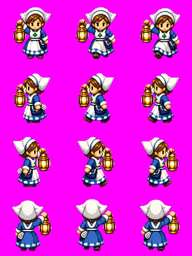
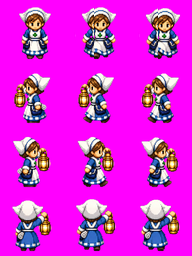
fix: the build-63 owner items -- the OTHER half-drawn well, the lantern, the exit
1. "the part of the well is still in the map. please cover it with grass (to
   the left of the player in the screen shot)"

   A THIRD well, not the one covered yesterday. The central well is gone and
   its plaza is clean; this is a C of masonry at art (858-900, 1538-1580), cell
   ~(29.3, 51.9), in the grass between the south-west woodpile and the path --
   the same "half drawn well" defect the owner first reported on build 59, in a
   corner nobody had looked at. It carried no collision at all, so this is
   paint only.

   Two things went differently from the central well and both are worth
   keeping. The source patch was picked BY EYE and only then checked by
   numbers: the automatic mean/std match chose an offset whose disc scored
   0.83% "dirty" and was a COTTAGE ROOF, because green roof tiles sail through
   a grass detector built on "green wins". Eight candidate patches were
   rendered and looked at before one was chosen. And the mask is SHAPED, not a
   feathered disc -- the fragment sits within 8 px of the woodpile above it, so
   the disc-plus-feather that suited the open plaza would have ghosted it. The
   mask is the fragment's own non-green pixels, dilated 5 and blurred 2.5,
   which is safe here because source and destination are the same material and
   there is no seam to hide.

2. "the healer is also holding a lantern for some reason but this is weird. she
   does not need it."
[…]

Changed region(s): [[0.7188, 0.0312, 0.8438, 0.25], [0.375, 0.0312, 0.5, 0.25], [0.0625, 0.0312, 0.1562, 0.25]]

diff --git a/public/act1-hifi/town.html b/public/act1-hifi/town.html
@@ -374,6 +374,17 @@ const state = { facing: (firstEntry && town.firstEntryFacing) || 'down', moving:
 let talking = null;
 let exitArmed = false;
 let exiting = false;
+// The exit is a LINE ACROSS THE TOWN'S MOUTH and the player leaves the moment she CROSSES it.
+// Every town's mouth runs east-west, so the line is a y value and only the sign differs; if a town
+// ever gets an east or west mouth this needs the other axis, and `exit.axis` is where to say so.
+const EXIT_SIGN = (town.exit?.axis ?? (town.exit?.cell?.[1] < town.cells / 2 ? 'north' : 'south'))
+  === 'north' ? -1 : 1;
+// Half-width of the mouth. 2.4 cells covers the narrowest reachable crossing in all three towns --
+// greenhollow spans x 30.31-34.06 at its gate, millbrook 29.31-33.88, Port Sapphire 31.44-33.75 --
+// measured by BFS from startCell over the walkable authority. Too small is not a cosmetic error: a
+// player hugging the edge of the gate walks straight through the line and out into the apron with
+// no way to leave.
+const EXIT_HALF_WIDTH = 2.4;
 
 // Service spots are places, not people: the shop counter under the awning and the save point by
 // the well. The healer is BOTH -- she is an NPC you talk to, and talking to her is the heal
@@ -552,13 +563,29 @@ function frame(now) {
     position = result.position ?? result;
   }
   // ---- leaving the town ---------------------------------------------------------------------
-  // The exit is the north trail mouth the player entered by. It ARMS only once they have walked
-  // clear of it, so spawning on the trail does not immediately bounce them back to the overworld.
+  // CROSSING the mouth leaves. This used to be a symmetric box -- fire when |dy| < 1.0 and
+  // |dx| < 1.6 of `exit.cell` -- and the box is what made the exit feel wrong twice running. It
+  // fires a WHOLE CELL BEFORE the line on the way out, so on build 62, with the exit on the painted
+  // gate, the screen changed while the player was still inside the fence (OWNER: "the exit of the
+  // town is set at a weird place"); and being symmetric it also fires a cell PAST the line, so
+  // pushing the exit out to the map edge to fix that left an eight-cell trudge across empty grass
+  // (OWNER, build 63: "the player needs to exit the town the moment they touch the edge of the
+  // town. currently they need to walk off of the map to exit it").
+  //
+  // A directional test has neither failure: `outward` is negative inside the town and crosses zero
+  // exactly at the line, so the transition happens on the step that reaches the gate and nowhere
+  // else. It also makes `exit.cell` mean what it says -- it is the line, and the minimap marker
+  // drawn from it now sits where the screen actually changes.
+  //
+  // ARMING still exists, but for the only reason it ever had: never fire on the frame the player
+  // arrives. She spawns at `startCell`, several cells inside, so she arms immediately and cannot
+  // fire until she has walked out; the old "2.5 cells clear in any direction" was measuring the
+  // wrong thing, because with a crossing test the inside is a half-plane, not a radius.
   const exitCell = town.exit?.cell ?? town.startCell;
-  const dyExit = Math.abs(position.y / CELL_W - exitCell[1]);
-  const dxExit = Math.abs(position.x / CELL_W - exitCell[0]);
-  if (!exitArmed && (dyExit > 2.5 || dxExit > 2.5)) exitArmed = true;
-  if (exitArmed && !exiting && dyExit < 1.0 && dxExit < 1.6) {
+  const outward = (position.y / CELL_W - exitCell[1]) * EXIT_SIGN;
+  const lateral = Math.abs(position.x / CELL_W - exitCell[0]);
+  if (!exitArmed && outward <= -0.75) exitArmed = true;
+  if (exitArmed && !exiting && outward >= 0 && lateral < EXIT_HALF_WIDTH) {
     exiting = true;
     parent.postMessage({ type: 'act1-town-exit', town: town.id,
                          targetMapId: town.exit?.targetMapId ?? 'overworld',

diff --git a/scripts/check_town_exits.py b/scripts/check_town_exits.py
@@ -1,0 +1,98 @@
+#!/usr/bin/env python3
+"""Can the player actually LEAVE each hi-fi town, and only where she is meant to?
+
+WHY THIS EXISTS
+---------------
+The town exit has been wrong in three consecutive builds, each time in a way no gate could see,
+because every previous check looked at the exit's OVERWORLD half (`toX`/`toY`, see
+check_town_transitions.py) and nothing looked at its IN-TOWN half at all:
+
+  build 57  `cell` sat 2.5-3.5 cells beyond the drawn gate, out on the open trail.
+  build 62  `cell` was on the gate, but town.html's symmetric box fired a whole cell BEFORE it,
+            so the screen changed while the player was still inside the fence.
+  build 63  `cell` moved to the edge of the 65-cell canvas -- which is not the edge of the TOWN.
+            Greenhollow's village stops at the fence around y 56; the player then walked eight
+            cells across empty grass before anything happened.
+
+town.html now treats `exit.cell` as a LINE across the town's mouth and fires when the player
+CROSSES it. This asserts the three properties that arrangement has to have, all measured against the
+walkable authority rather than read off the painting:
+
+  1. ARMS ON ARRIVAL. `startCell` must be at least 0.75 cells INSIDE the line, so the player arms
+     the moment she arrives and cannot be bounced straight back out to the overworld.
+  2. THE EXIT IS REACHABLE. There must be standable ground beyond the line, inside the mouth, that
+     a BFS from `startCell` can actually get to. An exit nobody can reach traps the player in town.
+  3. NO WAY ROUND IT. Every reachable cell beyond the line must be inside the mouth's half-width.
+     This is the one that bites silently: a player hugging the edge of a gate wider than the band
+     walks straight past the trigger into the apron, and there is then no way to leave at all.
+"""
+from __future__ import annotations
+import glob, importlib.util, json, os, sys
+import numpy as np
+
+ROOT = os.path.dirname(os.path.dirname(os.path.abspath(__file__)))
+TOWN_DIR = os.path.join(ROOT, "public/act1-hifi/town")
+_spec = importlib.util.spec_from_file_location(
+    "_pta", os.path.join(ROOT, "scripts/place_town_actors.py"))
+_pta = importlib.util.module_from_spec(_spec)
+_spec.loader.exec_module(_pta)
+
+HALF_WIDTH = 2.4      # town.html's EXIT_HALF_WIDTH -- keep the two in step
+ARM_MARGIN = 0.75     # town.html arms at outward <= -0.75
+
+
+def main() -> int:
+    bad, checked = [], 0
+    for tj in sorted(glob.glob(os.path.join(TOWN_DIR, "*-town.json"))):
+        town = os.path.basename(tj)[: -len("-town.json")]
+        cfg = json.load(open(tj))
+        ex = (cfg.get("exit") or {}).get("cell")
+        if not ex:
+            bad.append(f"  {town}: no exit.cell")
+            continue
+        walk = json.load(open(os.path.join(TOWN_DIR, os.path.basename(cfg["walkable"]))))
+        cell = float(cfg["worldPxPerCell"])
+        mask = _pta.standable(walk)
+        h, w = mask.shape
+        start = _pta.nearest(mask, cfg["startCell"][0] * cell, cfg["startCell"][1] * cell)
+        if start is None:
+            bad.append(f"  {town}: startCell has nowhere to stand")
+            continue
+        seen = _pta.reach(mask, (start[0], start[1]))
+        # same axis rule as town.html: no town has an east/west mouth yet
+        axis = (cfg["exit"].get("axis")
+                or ("north" if ex[1] < cfg["cells"] / 2 else "south"))
+        sign = -1 if axis == "north" else 1
+        yy, xx = np.mgrid[0:h, 0:w]
+        outward = (yy / cell - ex[1]) * sign
+        lateral = np.abs(xx / cell - ex[0])
+
+        checked += 1
+        arm = (cfg["startCell"][1] - ex[1]) * sign
+        if arm > -ARM_MARGIN:
+            bad.append(f"  {town}: startCell is {arm:+.2f} cells outward of the exit line -- it "
+                       f"must be at least {ARM_MARGIN} INSIDE or the exit never arms")
+        reachable_exit = int((seen & (outward >= 0) & (lateral < HALF_WIDTH)).sum())
+        if reachable_exit == 0:
+            bad.append(f"  {town}: no reachable ground beyond the exit line at y {ex[1]} -- "
+                       f"the player would be trapped in town")
+        leak = int((seen & (outward >= 0) & (lateral >= HALF_WIDTH)).sum())
+        if leak:
+            ys, xs = np.nonzero(seen & (outward >= 0) & (lateral >= HALF_WIDTH))
+            bad.append(f"  {town}: {leak} reachable world px lie beyond the exit line but OUTSIDE "
+                       f"its {HALF_WIDTH}-cell mouth (e.g. cell "
+                       f"{xs[0]/cell:.2f},{ys[0]/cell:.2f}) -- the player can walk round the exit")
+        print(f"  {town:14s} exit line y={ex[1]:5.1f} ({axis:5s})  startCell {arm:+.2f} cells inside"
+              f"  exit ground {reachable_exit:5d} px  round-the-side {leak} px")
+
+    if bad:
+        print("TOWN EXIT CHECK FAIL:")
+        print("\n".join(bad))
+        return 1
+    print(f"TOWN EXIT CHECK PASS: {checked} town(s) arm on arrival, can reach their exit, "
+          f"and have no way round it")
+    return 0
+
+
+if __name__ == "__main__":
+    sys.exit(main())

diff --git a/scripts/runtime_baseline.py b/scripts/runtime_baseline.py
@@ -455,9 +455,9 @@ ACT1_DUNGEON_FILES = {
 # no URL bar). Pinned so it cannot quietly grow into something that mutates real save data.
 ACT1_TOWN_FILES = {
     "act1-hifi/town.html": (
[2 lines of base64/hex data omitted]
     "act1-hifi/town/portSapphire-town.json": (
[2 lines of base64/hex data omitted]
     "act1-hifi/town/portSapphire-walkable.json": (
[1 lines of base64/hex data omitted]
     "act1-hifi/town/portSapphire-screen.png": (
@@ -472,7 +472,7 @@ ACT1_TOWN_FILES = {
     "act1-hifi/town/npc/portSapphire-drake-4x3-64.png": (
[1 lines of base64/hex data omitted]
     "act1-hifi/town/npc/portSapphire-healer-4x3-64.png": (
[2 lines of base64/hex data omitted]
     "act1-hifi/town/npc/portSapphire-sailor-4x3-64.png": (
[1 lines of base64/hex data omitted]
     "act1-hifi/town/npc/portSapphire-wisewoman-4x3-64.png": (
@@ -501,7 +501,7 @@ ACT1_TOWN_FILES = {
     # can see: it reports "0 updated", leaves the zeros in place, and the very next step fails with
     # "Act 1 town identity mismatch" pointing at the file you just added. Cost 2026-08-21.
     "act1-hifi/town/greenhollow-town.json": (
[2 lines of base64/hex data omitted]
     "act1-hifi/town/greenhollow-walkable.json": (
[1 lines of base64/hex data omitted]
     "act1-hifi/town/npc/greenhollow-elder-4x3-64.png": (
@@ -509,7 +509,7 @@ ACT1_TOWN_FILES = {
     "act1-hifi/town/npc/greenhollow-fisherman-4x3-64.png": (
[1 lines of base64/hex data omitted]
     "act1-hifi/town/npc/greenhollow-healer-4x3-64.png": (
[2 lines of base64/hex data omitted]
     "act1-hifi/town/npc/greenhollow-kiki-4x3-64.png": (
[1 lines of base64/hex data omitted]
     "act1-hifi/town/npc/greenhollow-villager1-4x3-64.png": (
@@ -528,7 +528,7 @@ ACT1_TOWN_FILES = {
     "act1-hifi/town/npc/portSapphire-shopkeeper-4x3-64.png": (
[1 lines of base64/hex data omitted]
     "act1-hifi/town/npc/millbrook-healer-4x3-64.png": (
[2 lines of base64/hex data omitted]
     "act1-hifi/town/npc/millbrook-herbalist-4x3-64.png": (
[1 lines of base64/hex data omitted]
     "act1-hifi/town/npc/millbrook-miller-4x3-64.png": (
@@ -540,7 +540,7 @@ ACT1_TOWN_FILES = {
     "act1-hifi/town/millbrook-walkable.json": (
[1 lines of base64/hex data omitted]
     "act1-hifi/town/millbrook-town.json": (
[2 lines of base64/hex data omitted]
     # 2026-08-21: the two plates the note above was waiting for. Both are the four-tile bake,
     # exposure-matched per tile and quilted on a minimum-error cut by scripts/stitch_plate.py.
     # Placeholder zeros; `npm run repin` fills the real size/hash in -- and the FILES ARE ON DISK
@@ -548,7 +548,7 @@ ACT1_TOWN_FILES = {
     "act1-hifi/town/millbrook-screen.png": (
[1 lines of base64/hex data omitted]
     "act1-hifi/town/greenhollow-screen.png": (
[2 lines of base64/hex data omitted]
     "act1-hifi/verify/seed.html": (
[1 lines of base64/hex data omitted]
 }

diff --git a/scripts/cover_greenhollow_sw_well.py b/scripts/cover_greenhollow_sw_well.py
@@ -1,0 +1,60 @@
+#!/usr/bin/env python3
+"""Cover the HALF-DRAWN WELL beside greenhollow's south-west woodpile with grass.
+
+OWNER 2026-08-29 (build 63): "the part of the well is still in the map. please cover it with grass
+(to the left of the player in the screen shot)."
+
+This is a DIFFERENT well from the central one that `cover_greenhollow_well.py` removed, and from the
+herb-shop one repainted on 2026-08-25. It is a C of masonry at art (858-900, 1538-1580), cell
+~(29.3, 51.9), sitting in the grass between the woodpile and the south path -- the same
+"half drawn well" class of defect the owner first reported on build 59. It carries NO collision at
+all: the derivation never saw it as an obstacle, so this is purely a paint fix.
+
+TWO THINGS THIS COVER DOES DIFFERENTLY FROM THE CENTRAL WELL'S
+
+1. GRASS, not cobble, and the source was picked BY EYE before it was checked by numbers. The
+   automatic mean/std match chose an offset of (-200,-200) whose disc scored 0.83% "dirty" and was
+   in fact a COTTAGE ROOF: green roof tiles are green-dominant, so a grass detector built on
+   "green wins" waves them straight through. Eight candidate patches were rendered and looked at,
+   and (880, 1760) -- open grass with scattered white and yellow flowers, offset (0, +202) -- was
+   chosen from those. A statistic cannot tell you it has handed you a roof.
+
+2. A SHAPED mask, not a feathered disc. The fragment sits within ~8 px of the woodpile above it and
+   the barrel to its left, so the disc-plus-34px-feather used on the central well would have ghosted
+   both. The mask here is derived from the fragment itself -- everything inside a tight box that is
+   NOT green-dominant, i.e. the masonry and its shadow -- then dilated 5 px and blurred 2.5. A tight
+   mask is safe here precisely because source and destination are the same material: there is no
+   seam to hide, so there is no need for a wide feather.
+"""
+import os, sys
+import numpy as np
+from PIL import Image, ImageFilter
+
+SRC_DX, SRC_DY = 0, 202              # open grass 6.7 cells due south; see note 2 above
+BOX = (854, 1536, 906, 1592)         # hugs the fragment and stops clear of the woodpile
+DILATE, SIGMA = 5, 2.5
+
+def cover(path):
+    im = Image.open(path).convert("RGB")
+    a = np.asarray(im).astype(int)
+    x0, y0, x1, y1 = BOX
+    sub = a[y0:y1, x0:x1]
+    r, g, b = sub[:, :, 0], sub[:, :, 1], sub[:, :, 2]
+    m = np.zeros(a.shape[:2], bool)
+    m[y0:y1, x0:x1] = ~((g > r + 8) & (g > b + 25))      # masonry + its shadow; grass is green-dominant
+    mask = (Image.fromarray((m * 255).astype("uint8"))
+            .filter(ImageFilter.MaxFilter(2 * DILATE + 1))
+            .filter(ImageFilter.GaussianBlur(SIGMA)))
+    fill = im.transform(im.size, Image.AFFINE, (1, 0, SRC_DX, 0, 1, SRC_DY), resample=Image.NEAREST)
+    out = Image.composite(fill, im, mask)
+    diff = (np.abs(a - np.asarray(out).astype(int)).sum(2) > 0)
+    ys, xs = np.nonzero(diff)
+    assert (np.asarray(out)[np.asarray(mask) == 0] == np.asarray(im)[np.asarray(mask) == 0]).all()
+    print(f"  {os.path.basename(path)}: {diff.sum()} px changed, "
+          f"bbox x {xs.min()}..{xs.max()} y {ys.min()}..{ys.max()}")
+    out.save(path)
+
+if __name__ == "__main__":
+    for p in (sys.argv[1:] or ["public/act1-hifi/town/greenhollow-screen.png",
+                               "design/act1-towns/greenhollow-screen.png"]):
+        cover(p)

diff --git a/scripts/healer_drop_lantern.py b/scripts/healer_drop_lantern.py
@@ -1,0 +1,60 @@
+#!/usr/bin/env python3
+"""Take the lantern out of the greenhollow/millbrook/portSapphire healer sprite.
+
+OWNER 2026-08-29 (build 63): "the healer is also holding a lantern for some reason but this is
+weird. she does not need it."
+
+The lantern was one of three deliberate silhouette marks given to her on 2026-08-25 (winged coif,
+lit lantern, flared hem). Two of the three survive, which is enough to keep her readable against the
+rest of the cast -- the coif is still the only flared headwear and the hem the only triangle.
+
+METHOD: mirror, not erase. Her raised right arm exists only to hold the lantern up, so deleting the
+lantern alone would leave an arm reaching for nothing. Instead the strip left of her body axis is
+replaced by a mirror of the strip right of it, which carries her LOWERED left arm across. She is
+drawn nearly symmetric -- skirt x 22..47 and feet x 25..44 both centre on 34.5 -- so the mirror
+lands without a seam, and it costs no new art.
+
+SCOPE: row 0 only, the three FRONT-FACING frames. town.html draws NPCs with
+`drawActor(n.sheet, n.point, 0, 0, ...)` -- column 0, row 0, always, because the owner made these
+NPCs stationary -- so row 0 is the entire visible sprite. Rows 1-3 are a walk cycle nothing renders
+and they still carry the lantern; the mirror cannot fix them (mirroring a side view flips which way
+she faces) and colour cannot find the lantern either -- measured against her hair it is the same
+range, mean (149,117,68) against (156,114,71). If NPC animation is ever switched on, those nine
+frames need regenerating, not patching.
+"""
+import os, sys
+import numpy as np
+from PIL import Image
+
+ROOT = os.path.dirname(os.path.dirname(os.path.abspath(__file__)))
+AXIS_SUM = 69          # x + x' = 69, i.e. the axis at 34.5 measured off skirt and feet
+STRIP = range(12, 30)  # the lantern side; x 30+ (face, right arm) is left untouched
+FRAME = 64
+ROW = 0                # front-facing; see SCOPE above
+
+TARGETS = [f"public/act1-hifi/town/npc/{t}-healer-4x3-64.png" for t in
+           ("greenhollow", "millbrook", "portSapphire")] + \
+          [f"design/act1-towns/npc/final/{t}-healer-4x3-64.png" for t in
+           ("greenhollow", "millbrook", "portSapphire")]
+
+
+def drop(path):
+    im = Image.open(path).convert("RGBA")
+    a = np.asarray(im).copy()
+    cols = im.width // FRAME
+    for col in range(cols):
+        x0, y0 = col * FRAME, ROW * FRAME
+        f = a[y0:y0 + FRAME, x0:x0 + FRAME].copy()
+        for x in STRIP:
+            f[:, x] = f[:, AXIS_SUM - x]
+        a[y0:y0 + FRAME, x0:x0 + FRAME] = f
+    Image.fromarray(a.astype("uint8"), "RGBA").save(path)
+    return cols
+
+
+if __name__ == "__main__":
+    for rel in TARGETS:
+        p = os.path.join(ROOT, rel)
+        if not os.path.exists(p):
+            sys.exit(f"missing: {rel}")
+        print(f"  {rel}: {drop(p)} front frame(s) de-lanterned")
